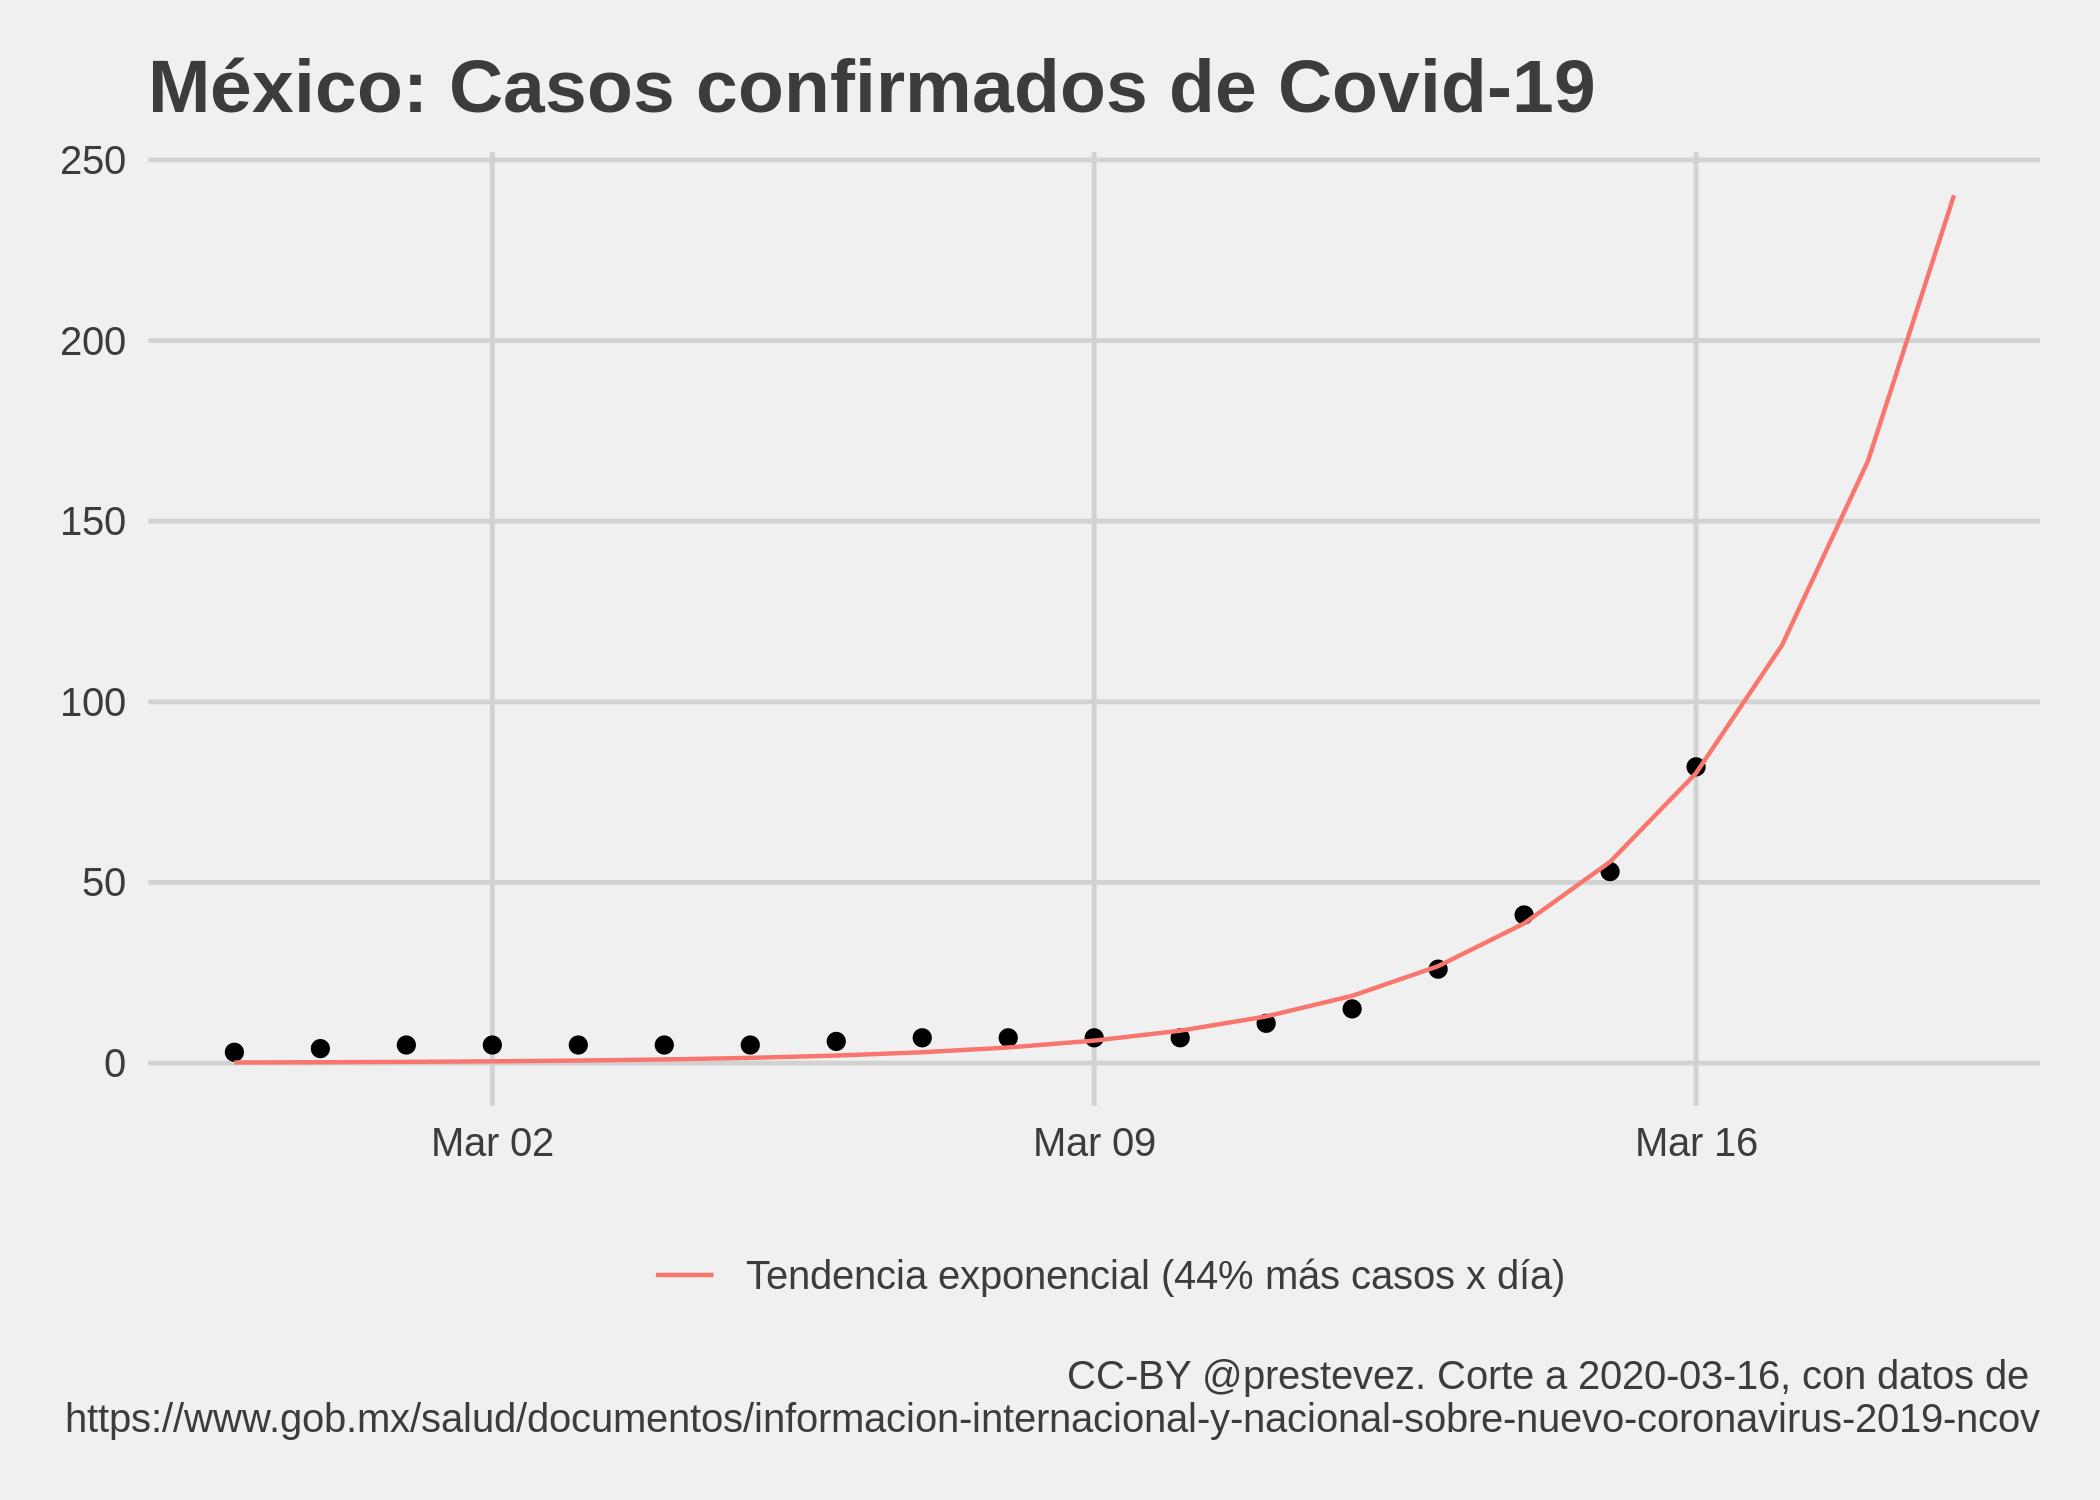
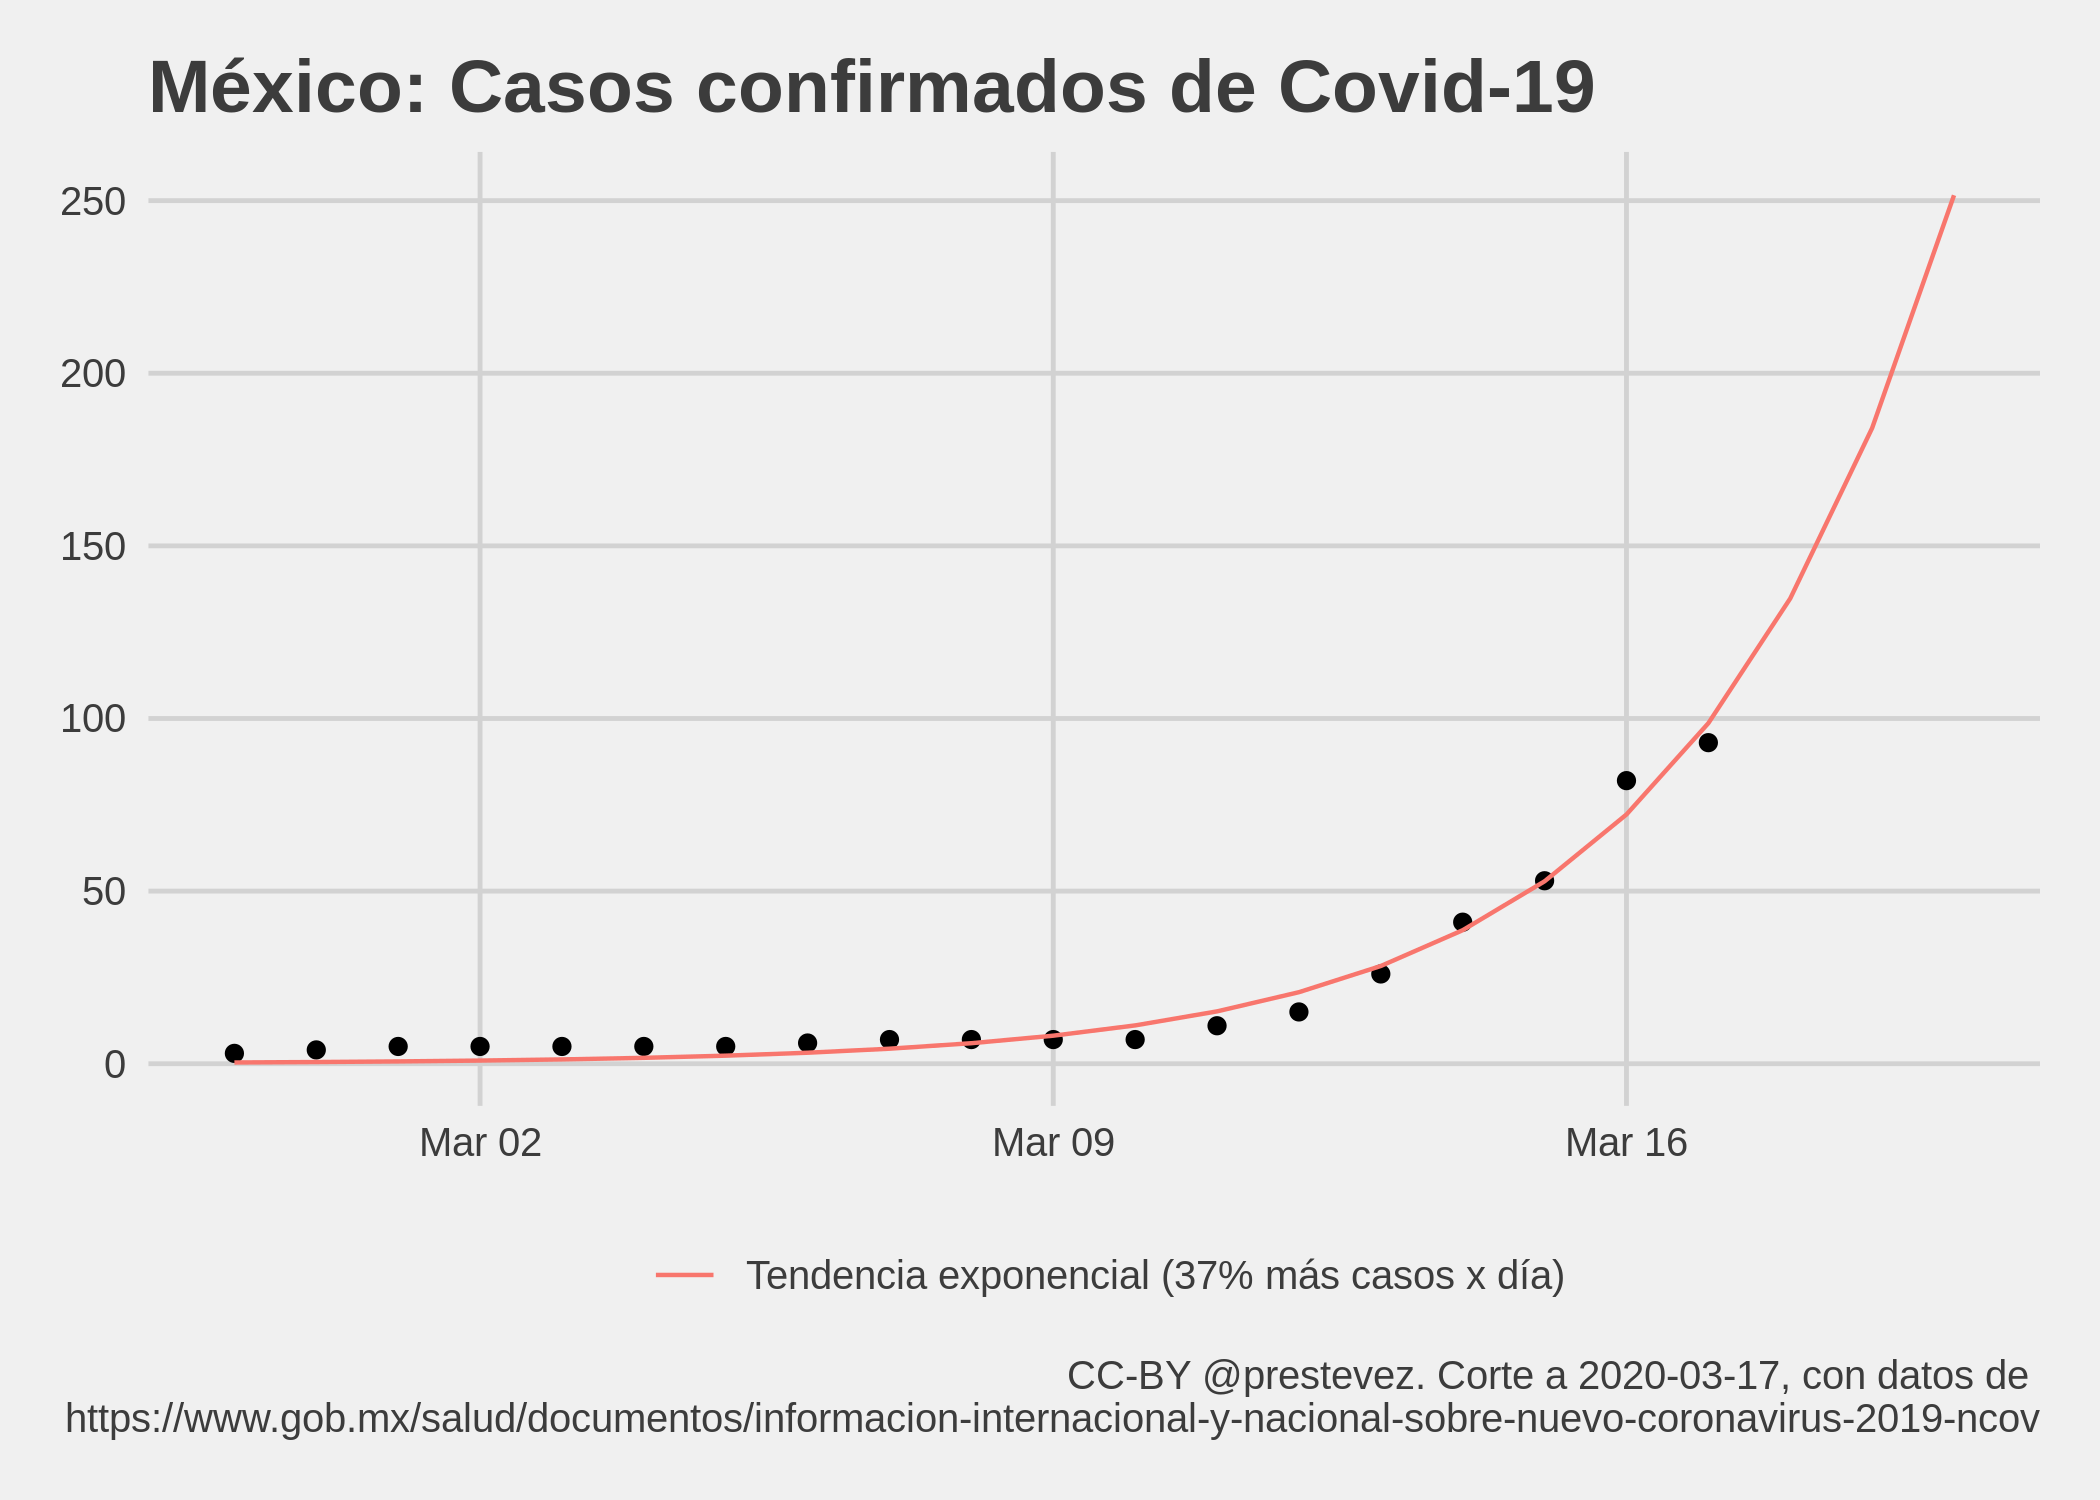
updated data including 2020-03-17

diff --git a/README.md b/README.md
@@ -1,7 +1,7 @@
 Evolución de Covid-19 en México
 ================
 [Patricio R Estevez-Soto](https://twitter.com/prestevez).
-Actualizado: 2020-03-17 12:04:04 GMT
+Actualizado: 2020-03-18 01:09:32 GMT
 
 # Crecimiento de casos confirmados de Covid-19 en México
 
@@ -37,23 +37,23 @@ Parámetros del modelo predictivo:
     ## glm(formula = casos ~ t, family = gaussian("log"), data = casos)
     ## 
     ## Deviance Residuals: 
-    ##     Min       1Q   Median       3Q      Max  
-    ## -3.6161  -0.4251   2.7609   3.9794   4.6654  
+    ##    Min      1Q  Median      3Q     Max  
+    ## -5.722  -1.718   2.641   3.402   9.802  
     ## 
     ## Coefficients:
     ##             Estimate Std. Error t value Pr(>|t|)    
-    ## (Intercept) -2.19103    0.39331  -5.571 4.22e-05 ***
-    ## t            0.36536    0.02297  15.907 3.16e-11 ***
+    ## (Intercept) -1.33764    0.33518  -3.991 0.000946 ***
+    ## t            0.31206    0.01871  16.680 5.68e-12 ***
     ## ---
     ## Signif. codes:  0 '***' 0.001 '**' 0.01 '*' 0.05 '.' 0.1 ' ' 1
     ## 
-    ## (Dispersion parameter for gaussian family taken to be 11.74525)
+    ## (Dispersion parameter for gaussian family taken to be 18.21344)
     ## 
-    ##     Null deviance: 7816.00  on 17  degrees of freedom
-    ## Residual deviance:  187.91  on 16  degrees of freedom
-    ## AIC: 99.303
+    ##     Null deviance: 13384.42  on 18  degrees of freedom
+    ## Residual deviance:   309.63  on 17  degrees of freedom
+    ## AIC: 112.95
     ## 
-    ## Number of Fisher Scoring iterations: 8
+    ## Number of Fisher Scoring iterations: 5
 
 # Precisión predictiva
 
@@ -62,14 +62,15 @@ confirmados. En esta sección se presenta la diferencia entre el número
 de casos observados hoy contra el número de casos que se esperaban hoy
 según el modelo del día anterior.
 
-| Fecha      | Observados | Predicción | Error |
-| :--------- | ---------: | ---------: | ----: |
-| 2020-03-15 |         53 |      51.89 |  1.11 |
-| 2020-03-16 |         82 |      73.72 |  8.28 |
+| Fecha      | Observados | Predicción |   Error |
+| :--------- | ---------: | ---------: | ------: |
+| 2020-03-15 |         53 |      51.89 |    1.11 |
+| 2020-03-16 |         82 |      73.72 |    8.28 |
+| 2020-03-17 |         93 |     115.68 | \-22.68 |
 
 # Casos esperados mañana
 
-Mañana se esperan **116** casos confirmados de Covid-19 si la tendencia
+Mañana se esperan **135** casos confirmados de Covid-19 si la tendencia
 observada hasta hoy se mantiene igual.
 
 # Discusión
@@ -79,7 +80,7 @@ confirmados de Covid-19 es consistente con ejercicios [realizados en
 otros países](https://doi.org/10.1016/S0140-6736\(20\)30627-9).
 
 La tendencia exponencial del modelo sugiere que **el número de casos
-confirmados se duplica cada 1.39 días**. Este ritmo es más rápido que
+confirmados se duplica cada 1.46 días**. Este ritmo es más rápido que
 [el observado a nivel
 global](https://ourworldindata.org/coronavirus#growth-of-cases-how-long-did-it-take-for-the-number-of-confirmed-cases-to-double),
 pero es consistente con los ritmos de crecimiento observados durante las
